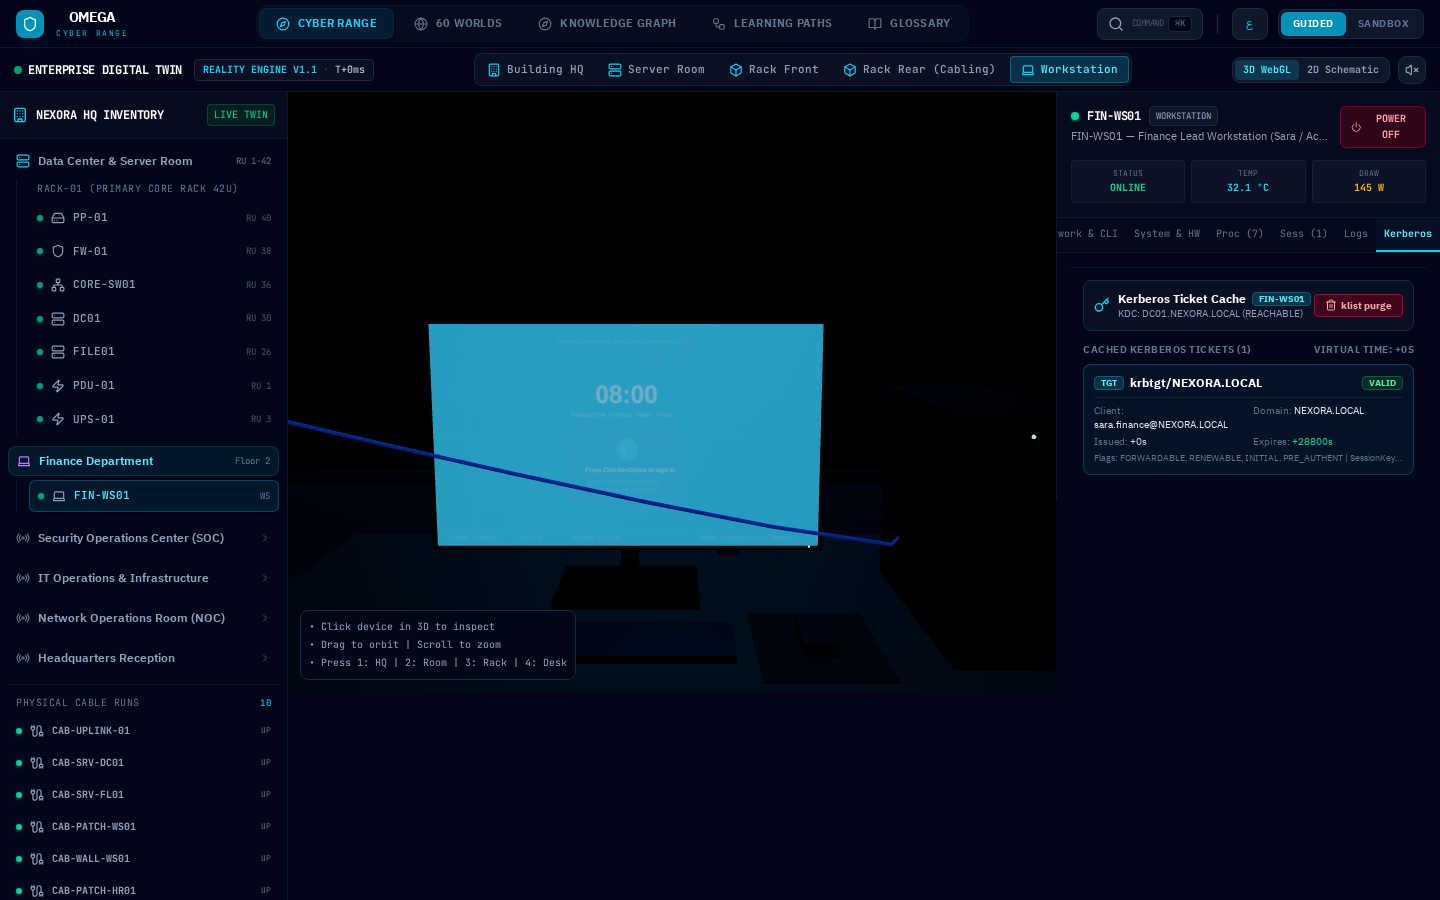
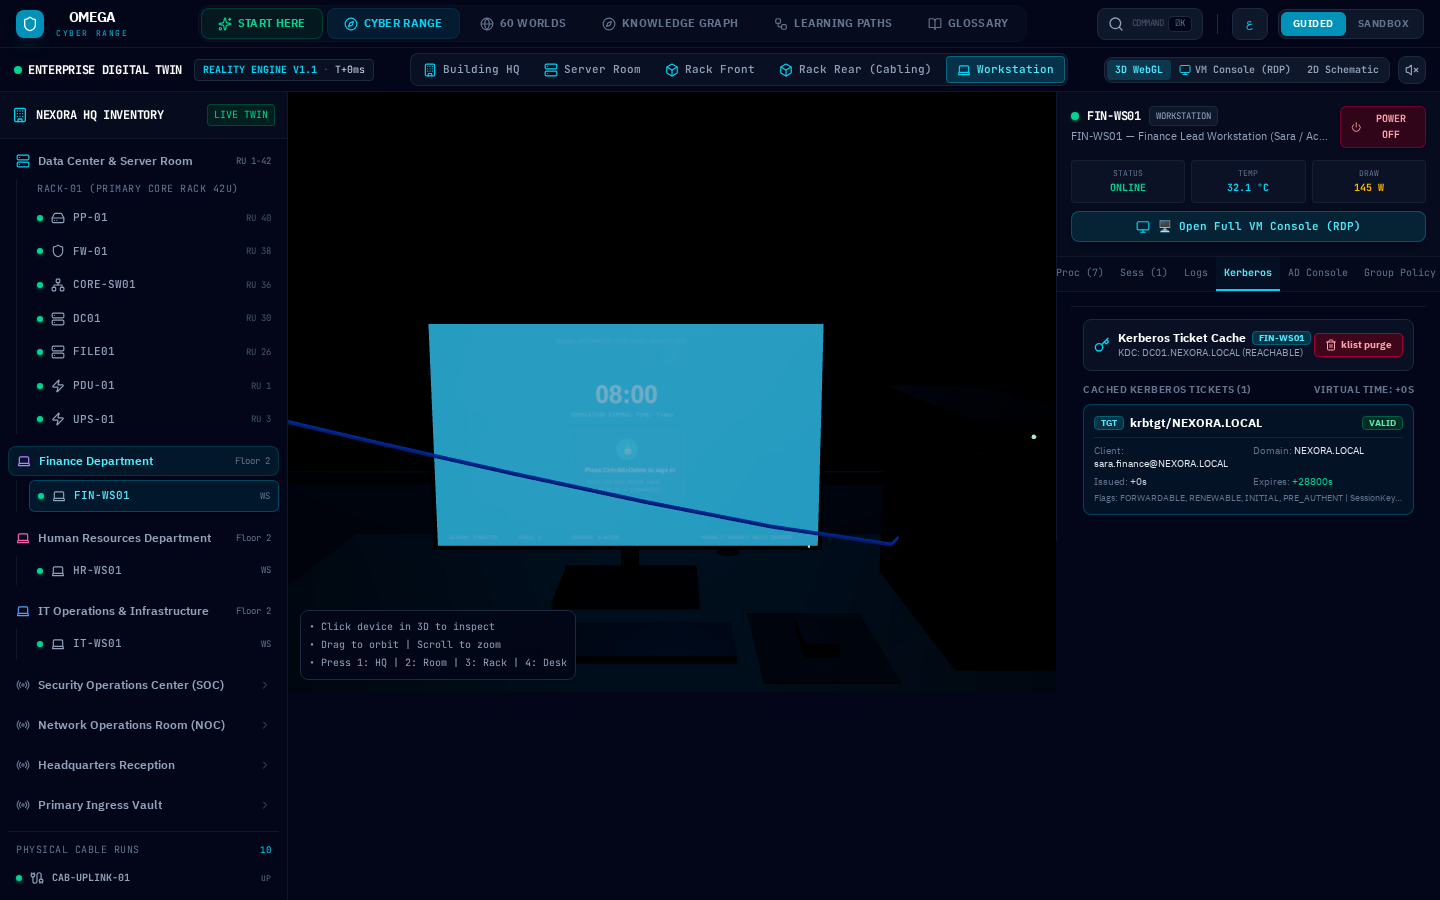
test: improve curriculum progress and workspace UI
- Implement strict validation for lesson completion progress.
- Add test IDs to challenge panel elements.
- Fix workspace sidebar layout positioning.
- Update visual artifact for Kerberos TGT demonstration.

diff --git a/tests/e2e/beginner-curriculum.spec.ts b/tests/e2e/beginner-curriculum.spec.ts
@@ -54,18 +54,52 @@ test.describe('Beginner-First Curriculum E2E Journey', () => {
     await toStage4Btn.click();
     await expect(page.getByText(/المهمة العملية/i).first()).toBeVisible();
 
-    // 4. Test Simulation Lab Launch & Context-Preserved Return
+    // 4. Test Simulation Lab Launch & Real Interactive Validation Journey
     const openLabBtn = page.getByRole('button', { name: /الانتقال إلى المحاكي والتطبيق/i });
     await expect(openLabBtn).toBeVisible();
     await openLabBtn.click();
 
-    // Inside the simulation lab, Header displays "العودة للدرس" with preserved context
+    // Verify inside CIA Triad Simulation Workspace
     const returnToLessonBtn = page.getByTestId('return-to-lesson-btn');
     await expect(returnToLessonBtn).toBeVisible({ timeout: 20000 });
+    const validateBtn = page.getByTestId('challenge-validate-btn');
+    await expect(validateBtn).toBeVisible();
+
+    // 4a. Negative test: Intentionally uncheck Encryption to fail verification
+    const toggleEncryption = page.getByTestId('toggle-encryption');
+    await expect(toggleEncryption).toBeVisible();
+    await toggleEncryption.uncheck();
+
+    // Run validation while condition is broken
+    await validateBtn.click();
+
+    // Expect failure banner and verify challenge remains uncompleted
+    const resultBanner = page.getByTestId('challenge-result-banner');
+    await expect(resultBanner).toBeVisible();
+    await expect(resultBanner).toContainText(/فشل التحقق|ما زالت هناك ثغرات/i);
+    // Button must still show validate action, NOT retest/mastered
+    await expect(validateBtn).toContainText(/التحقق من صحة الحل الأمني/i);
+
+    // 4b. Positive test: Fulfill all real CIA Triad conditions (re-enable encryption)
+    await toggleEncryption.check();
+    await expect(page.getByTestId('toggle-signing')).toBeChecked();
+    await expect(page.getByTestId('toggle-redundancy')).toBeChecked();
+
+    // Run validation with all requirements fulfilled
+    await validateBtn.click();
+
+    // Expect success banner and verified challenge status
+    await expect(resultBanner).toBeVisible();
+    await expect(resultBanner).toContainText(/تم التحقق بنجاح|ممتاز! تم تحصين ثالوث CIA/i);
+    await expect(validateBtn).toContainText(/إعادة الاختبار والتحقق/i);
+
+    // 4c. Return to lesson with verified challenge state
     await returnToLessonBtn.click();
 
     // Back in Lesson View
     await expect(curriculumHeading).toBeVisible();
+    // Verify task status reflects engine confirmation
+    await expect(page.getByText(/تم تأكيد حل التحدي \(cia-balance-challenge\) برمجياً من المحرك بنجاح/i)).toBeVisible();
 
     // 5. Test Strict Completion Gating (Direct jump to Stage 7 from Task is blocked)
     const nextStepTab = page.getByRole('button', { name: /7\. الخطوة التالية/i });
@@ -84,12 +118,12 @@ test.describe('Beginner-First Curriculum E2E Journey', () => {
     await toStage6Btn.click();
     await expect(page.getByText(/الفحص المعرفي التفاعلي السريع/i)).toBeVisible();
 
-    // Move to Stage 7: Next Step
+    // Move to Stage 7: Next Step (before solving quiz)
     const toStage7Btn = page.getByRole('button', { name: /المرحلة 7: الخطوة التالية والانتقال/i });
     await expect(toStage7Btn).toBeVisible();
     await toStage7Btn.click();
 
-    // Verify lock warning is shown and completion button is NOT available while conditions are unmet
+    // Verify lock warning is shown because quiz is not yet solved
     await expect(page.getByText(/متطلبات إكمال المحطة غير مستوفاة بعد/i)).toBeVisible();
     await expect(page.getByRole('button', { name: /إكمال والانتقال إلى المحطة التالية/i })).toHaveCount(0);
 
@@ -109,21 +143,18 @@ test.describe('Beginner-First Curriculum E2E Journey', () => {
     await optConfidentiality.click();
     await expect(page.getByText(/إجابة صحيحة! التشفير يحول البيانات/i)).toBeVisible();
 
-    // 7. Complete the Practical Task in Simulator
-    await page.evaluate(() => {
-      const store = (window as any).useSimulationStore?.getState();
-      if (store) {
-        store.completeChallenge('cia-balance-challenge');
-      }
-    });
-
-    // Return to Stage 7 (Next Step) - Both requirements now fulfilled!
+    // Return to Stage 7 (Next Step) - Both requirements now fulfilled via real UI interactions!
     await nextStepTab.click();
     const completeLessonBtn = page.getByRole('button', { name: /إكمال والانتقال إلى المحطة التالية/i });
     await expect(completeLessonBtn).toBeVisible();
     await completeLessonBtn.click();
 
     // Lesson 1 is completed and advances to Lesson 2 (System Internals)
+    await expect(page.getByText(/المحطة 2 من 10/i).first()).toBeVisible();
+
+    // Verify reload persistence after lesson completion
+    await page.reload();
+    await page.waitForLoadState('domcontentloaded');
     await expect(page.getByText(/المحطة 2 من 10/i).first()).toBeVisible();
 
     // 8. Verify Exploratory Lesson with Honest Guided Manual Confirmation (Lesson 6)

diff --git a/src/engine/__tests__/BeginnerCurriculumExperience.test.tsx b/src/engine/__tests__/BeginnerCurriculumExperience.test.tsx
@@ -11,6 +11,9 @@ import { useSimulationStore, safeParseActiveLessonId } from '../../stores/simula
 describe('Beginner-First Learning Experience & Curriculum Architecture', () => {
   beforeEach(() => {
     cleanup();
+    if (typeof localStorage !== 'undefined') {
+      localStorage.clear();
+    }
     useSimulationStore.setState({
       language: 'ar',
       activeSimulationId: 'lesson',
@@ -367,6 +370,91 @@ describe('Beginner-First Learning Experience & Curriculum Architecture', () => {
       fireEvent.click(returnBtn);
       expect(useSimulationStore.getState().activeSimulationId).toBe('lesson');
       expect(useSimulationStore.getState().activeLessonId).toBe('lesson-03-subnet-routing');
+    });
+  });
+
+  describe('Curriculum Progress Calculation & Data Sanitation Audit', () => {
+    it('accurately calculates progress percentage without duplicate counting or unknown IDs', () => {
+      // 1. With duplicate IDs and unknown fake IDs
+      useSimulationStore.setState({
+        completedLessons: [
+          'lesson-01-cia-triad',
+          'lesson-01-cia-triad',
+          'fake-unknown-lesson-id',
+          'another-hacked-id',
+        ],
+      });
+
+      render(<LessonView />);
+
+      // Exactly 1 valid lesson out of 10 should be 10%
+      expect(screen.getByText(/10% \(1\/10\)/i)).toBeDefined();
+    });
+
+    it('does not count active lesson as completed until it is actually finished', () => {
+      useSimulationStore.setState({
+        activeLessonId: 'lesson-01-cia-triad',
+        completedLessons: [],
+      });
+
+      render(<LessonView />);
+      expect(screen.getByText(/0% \(0\/10\)/i)).toBeDefined();
+    });
+
+    it('never exceeds 100% even if extra valid/duplicate lessons are reported', () => {
+      const allLessons = Object.keys(CURRICULUM_LESSONS);
+      useSimulationStore.setState({
+        completedLessons: [...allLessons, ...allLessons, 'extra-invalid-id'],
+      });
+
+      render(<LessonView />);
+      expect(screen.getByText(/100% \(10\/10\)/i)).toBeDefined();
+    });
+
+    it('safely handles corrupted lessonProgress storage and bounds stages', () => {
+      const store = useSimulationStore.getState();
+
+      // Corrupted non-JSON string
+      localStorage.setItem('omega_lesson_progress', '{not-valid-json');
+      store.reloadFromStorage();
+      expect(useSimulationStore.getState().lessonProgress).toEqual({});
+
+      // Malicious attempt to inject stage 6 into an uncompleted lesson
+      localStorage.setItem(
+        'omega_lesson_progress',
+        JSON.stringify({
+          'lesson-01-cia-triad': {
+            currentStage: 6,
+            furthestUnlockedStage: 6,
+          },
+        })
+      );
+      store.reloadFromStorage();
+      // Must be capped back to stage 5 because lesson is not completed
+      const restored = useSimulationStore.getState().lessonProgress['lesson-01-cia-triad'];
+      expect(restored.furthestUnlockedStage).toBeLessThanOrEqual(5);
+      expect(restored.currentStage).toBeLessThanOrEqual(5);
+    });
+
+    it('validates completeChallenge inputs and protects against empty or non-string IDs', () => {
+      const store = useSimulationStore.getState();
+      const initialCount = store.completedChallenges.length;
+
+      // Reject empty or whitespace
+      store.completeChallenge('');
+      store.completeChallenge('   ');
+      // @ts-ignore
+      store.completeChallenge(null);
+      // @ts-ignore
+      store.completeChallenge(undefined);
+      // @ts-ignore
+      store.completeChallenge(123);
+
+      expect(useSimulationStore.getState().completedChallenges.length).toBe(initialCount);
+
+      // Valid ID registers cleanly
+      store.completeChallenge('valid-challenge-test');
+      expect(useSimulationStore.getState().completedChallenges).toContain('valid-challenge-test');
     });
   });
 

diff --git a/src/simulations/foundations/CiaTriadSimulation.tsx b/src/simulations/foundations/CiaTriadSimulation.tsx
@@ -144,33 +144,45 @@ export const CiaTriadSimulation: React.FC = () => {
 
           {/* Defense Controls */}
           <div className="flex items-center gap-3">
-            <label className="flex items-center gap-1.5 text-xs text-slate-300 cursor-pointer bg-slate-950 px-2.5 py-1 rounded border border-slate-800">
+            <div className="flex items-center gap-1.5 text-xs text-slate-300 bg-slate-950 px-2.5 py-1 rounded border border-slate-800">
               <input
+                id="toggle-encryption"
                 type="checkbox"
+                data-testid="toggle-encryption"
                 checked={encryptionEnabled}
                 onChange={(e) => setEncryptionEnabled(e.target.checked)}
-                className="rounded border-slate-700 text-cyan-500"
+                className="rounded border-slate-700 text-cyan-500 cursor-pointer"
               />
-              <span>{language === 'ar' ? 'التشفير (AES-256)' : 'AES Encryption'}</span>
-            </label>
-            <label className="flex items-center gap-1.5 text-xs text-slate-300 cursor-pointer bg-slate-950 px-2.5 py-1 rounded border border-slate-800">
+              <label htmlFor="toggle-encryption" className="cursor-pointer select-none">
+                {language === 'ar' ? 'التشفير (AES-256)' : 'AES Encryption'}
+              </label>
+            </div>
+            <div className="flex items-center gap-1.5 text-xs text-slate-300 bg-slate-950 px-2.5 py-1 rounded border border-slate-800">
               <input
+                id="toggle-signing"
                 type="checkbox"
+                data-testid="toggle-signing"
                 checked={signingEnabled}
                 onChange={(e) => setSigningEnabled(e.target.checked)}
-                className="rounded border-slate-700 text-cyan-500"
+                className="rounded border-slate-700 text-cyan-500 cursor-pointer"
               />
-              <span>{language === 'ar' ? 'التوقيع (SHA-256)' : 'HMAC Signing'}</span>
-            </label>
-            <label className="flex items-center gap-1.5 text-xs text-slate-300 cursor-pointer bg-slate-950 px-2.5 py-1 rounded border border-slate-800">
+              <label htmlFor="toggle-signing" className="cursor-pointer select-none">
+                {language === 'ar' ? 'التوقيع (SHA-256)' : 'HMAC Signing'}
+              </label>
+            </div>
+            <div className="flex items-center gap-1.5 text-xs text-slate-300 bg-slate-950 px-2.5 py-1 rounded border border-slate-800">
               <input
+                id="toggle-redundancy"
                 type="checkbox"
+                data-testid="toggle-redundancy"
                 checked={redundancyEnabled}
                 onChange={(e) => setRedundancyEnabled(e.target.checked)}
-                className="rounded border-slate-700 text-cyan-500"
+                className="rounded border-slate-700 text-cyan-500 cursor-pointer"
               />
-              <span>{language === 'ar' ? 'تكرار الخوادم (HA)' : 'HA Redundancy'}</span>
-            </label>
+              <label htmlFor="toggle-redundancy" className="cursor-pointer select-none">
+                {language === 'ar' ? 'تكرار الخوادم (HA)' : 'HA Redundancy'}
+              </label>
+            </div>
           </div>
         </div>
       }

diff --git a/src/components/simulation/Workspace.tsx b/src/components/simulation/Workspace.tsx
@@ -289,7 +289,7 @@ export const Workspace: React.FC<WorkspaceProps> = ({
               className="fixed inset-0 bg-black/60 z-10 lg:hidden" 
               onClick={() => setLeftOpen(false)} 
             />
-            <div className="absolute left-0 rtl:left-auto rtl:right-0 lg:relative z-20 h-full bg-slate-950 lg:bg-transparent border-r rtl:border-r-0 rtl:border-l border-slate-900 shadow-2xl lg:shadow-none w-80 max-w-[calc(100vw-3rem)] shrink-0 animate-in slide-in-from-left rtl:slide-in-from-right duration-150">
+            <div className="absolute left-0 rtl:left-auto rtl:right-0 lg:static lg:inset-auto z-20 h-full bg-slate-950 lg:bg-transparent border-r rtl:border-r-0 rtl:border-l border-slate-900 shadow-2xl lg:shadow-none w-80 max-w-[calc(100vw-3rem)] shrink-0 animate-in slide-in-from-left rtl:slide-in-from-right duration-150">
               <div className="flex items-center justify-between p-2.5 border-b border-slate-900 lg:hidden bg-slate-950">
                 <span className="text-xs font-bold text-white uppercase tracking-wider">
                   {language === 'ar' ? 'الأهداف والمتطلبات' : 'Challenge Objectives'}
@@ -317,7 +317,7 @@ export const Workspace: React.FC<WorkspaceProps> = ({
           </div>
 
           {controlDeck && (
-            <div className="border-t border-slate-900 bg-slate-950 p-2.5 shrink-0">
+            <div className="border-t border-slate-900 bg-slate-950 p-2.5 shrink-0 relative z-30">
               {controlDeck}
             </div>
           )}

diff --git a/src/components/curriculum/LessonView.tsx b/src/components/curriculum/LessonView.tsx
@@ -114,10 +114,23 @@ export const LessonView: React.FC = () => {
 
   const MilestoneIcon = getMilestoneIcon(currentMilestone.iconName);
 
-  // Overall progress calculation
-  const totalLessonsCount = Object.keys(CURRICULUM_LESSONS).length;
-  const completedCount = completedLessons.length;
-  const progressPercent = Math.round((completedCount / (totalLessonsCount || 1)) * 100);
+  // Overall progress calculation strictly audited against valid curriculum lessons
+  const validCurriculumLessonIds = useMemo(() => new Set(Object.keys(CURRICULUM_LESSONS)), []);
+  const validCompletedLessonIds = useMemo(() => {
+    const set = new Set<string>();
+    for (const id of completedLessons) {
+      if (typeof id === 'string' && validCurriculumLessonIds.has(id.trim())) {
+        set.add(id.trim());
+      }
+    }
+    return set;
+  }, [completedLessons, validCurriculumLessonIds]);
+
+  const totalLessonsCount = validCurriculumLessonIds.size;
+  const completedCount = validCompletedLessonIds.size;
+  const progressPercent = totalLessonsCount > 0
+    ? Math.min(100, Math.max(0, Math.round((completedCount / totalLessonsCount) * 100)))
+    : 0;
 
   // 1. Task verification evaluation
   const isInteractive = currentLesson.guidedTask.checkType === 'interactive_simulation';

diff --git a/src/components/challenges/ChallengePanel.tsx b/src/components/challenges/ChallengePanel.tsx
@@ -137,6 +137,7 @@ export const ChallengePanel: React.FC<ChallengePanelProps> = ({
         {/* Validation Result Banner */}
         {validationResult && (
           <div
+            data-testid="challenge-result-banner"
             className={`p-3 rounded-lg border text-xs flex items-start gap-2 ${
               validationResult.success
                 ? 'bg-emerald-950/40 border-emerald-700 text-emerald-200'
@@ -187,6 +188,7 @@ export const ChallengePanel: React.FC<ChallengePanelProps> = ({
       <div className="p-3 border-t border-slate-800 bg-slate-900/40 shrink-0">
         <button
           onClick={handleRunValidation}
+          data-testid="challenge-validate-btn"
           className={`w-full py-2.5 px-3 rounded-lg font-bold text-xs uppercase tracking-wider transition-colors flex items-center justify-center gap-2 shadow-sm ${
             isMastered
               ? 'bg-emerald-600 hover:bg-emerald-500 text-white'

diff --git a/src/stores/simulationStore.ts b/src/stores/simulationStore.ts
@@ -519,9 +519,11 @@ export const useSimulationStore = create<SimulationStoreState>((set, get) => {
   clearSelection: () => set({ selectedEntity: null }),
 
   completeChallenge: (challengeId) => {
+    if (typeof challengeId !== 'string' || !challengeId.trim()) return;
+    const cleanId = challengeId.trim();
     const existing = get().completedChallenges;
-    if (!existing.includes(challengeId)) {
-      const updated = [...existing, challengeId];
+    if (!existing.includes(cleanId)) {
+      const updated = [...existing, cleanId];
       setStoredItem('omega_completed_challenges', JSON.stringify(updated));
       set({ completedChallenges: updated });
     }
